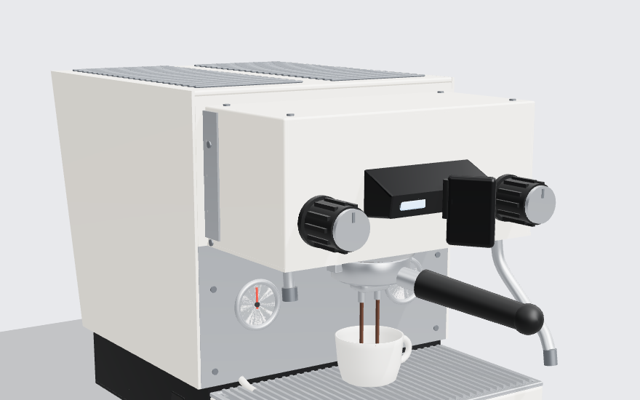
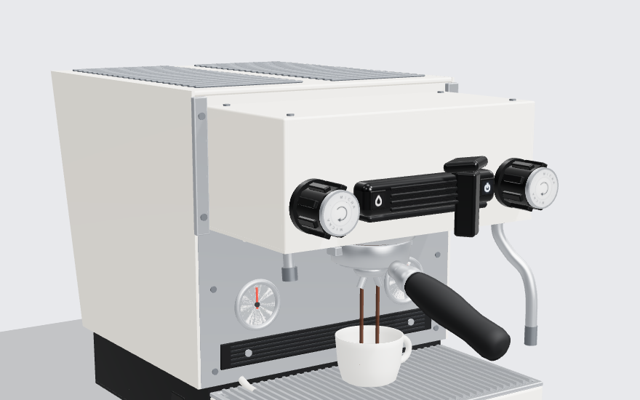
Linea Micra：按正面高清图重做拨杆、旋钮与手柄
- 油门式拨杆：横向黑色外壳 + 层叠鳍片，两端水滴（缺水）与电源（加热）图标窗，T 形握头
- 旋钮：八棱握圈 + MICRA 端盖，顺时针箭头
- 手柄：人体工学握把，金属颈带凸缘，可选黑色 / 胡桃木
- 机头高度、两侧前向连接片、压力表下方格栅带、蒸汽棒外弯直落按照片修正
- 更新截图与 README

Claude-Session: https://claude.ai/code/session_012V7wkPAnxipe7Hg38rGhwa

Changed region(s): [[0.2812, 0.24, 0.875, 0.93], [0.6875, 0.21, 0.7188, 0.24]]

diff --git a/sims/linea-micra.html b/sims/linea-micra.html
@@ -76,6 +76,8 @@ button:focus-visible{outline:2px solid var(--accent);outline-offset:1px}
 button.on{background:var(--ink);color:var(--card);border-color:var(--ink)}
 .sw{display:inline-flex;align-items:center;gap:6px;padding:4px 9px 4px 5px}
 .sw i{width:16px;height:16px;border:1px solid rgba(0,0,0,.25);display:inline-block;flex:none}
+.hsw{display:inline-flex;align-items:center;gap:6px;margin-left:6px}
+.lbl2{font-size:11px;color:var(--ink-2)}
 .sw.on{background:var(--card);color:var(--ink);border-color:var(--ink);box-shadow:inset 0 0 0 1px var(--ink)}
 .scrub{display:flex;align-items:center;gap:10px}
 .scrub input{flex:1;accent-color:var(--accent);min-width:0}
@@ -452,8 +454,8 @@ function anchor(p, pos, title, spec, subs) { anchors.push({p, pos: new THREE.Vec
    Axes: x to the right, y up, z toward the front. The main body's front face is z = 0; the head box sticks out in front of it.
    Overall 290 wide, 335 high, 395 deep at the base (drip tray front to the back foot), drip tray 270 wide. */
 const GZ = 60;        // group axis
-const KY_V = 238;     // height of the knobs and their valves
-const HB = {x: 133, y0: 200, y1: 322, z1: 126};   // head box
+const KY_V = 251;     // height of the knobs and their valves
+const HB = {x: 133, y0: 215, y1: 322, z1: 126};   // head box
 const BODY = {x: 145, y0: 70, y1: 335, zTop: -309, zBot: -254};
 
 /* ---------------------------------------------------------------- base plinth (black) with the feet, switch and plug; holds the tank */
@@ -554,6 +556,10 @@ const GAUGES = [{key: 'brew', x: -84, max: 18, major: 3, minor: 1, red: [8, 10]}
   // the body's front above the gauges, hidden behind the head box
   const upper = skin(boxMM(-142, 142, HB.y0, 322, -3, 0, MAT.paint), 'body');
   const objs = [plate, upper];
+  // the dark louvred band above the drip tray, with its two screws
+  objs.push(boxMM(-122, 122, 84, 108, -1, 1.2, std(0x1a1b1d, 0.3, 0.5), 2));
+  for (let y = 88; y <= 104; y += 4) objs.push(boxMM(-112, 112, y - 0.8, y + 0.8, 1.2, 2.2, std(0x2c2e31, 0.4, 0.4)));
+  for (const x of [-94, 94]) objs.push(cylZ(3.4, 1.2, 3.4, x, 96, MAT.steel, 16));
   for (const G of GAUGES) {
     const face = new THREE.Mesh(new THREE.CircleGeometry(GR, 48), new THREE.MeshStandardMaterial({map: makeGaugeTexture(G.max, G.major, G.minor, G.red), roughness: 0.4}));
     face.position.set(G.x, GY, 1);
@@ -572,20 +578,61 @@ const GAUGES = [{key: 'brew', x: -84, max: 18, major: 3, minor: 1, red: [8, 10]}
   anchor(pp, [84, 162, 4], '蒸汽压力表', '0–3 bar', ['steam']);
 }
 
-/* ---------------------------------------------------------------- head box: front panel C.1.660 and group cover C.1.661, knobs, the paddle module */
+/* ---------------------------------------------------------------- head box: front panel C.1.660 and group cover C.1.661, knobs, the paddle module (matched to the front product photo) */
 let paddle, paddleMeshes = [], stripeMeshes = [];
-const KNOBS = {};      // steam (right) and hot water (left): each turns about its own axis
-function knob(x, y, z0) {
-  const len = 46, r = 18, g = new THREE.Group();
-  g.add(cylZ(21, z0, z0 + 5, 0, 0, MAT.plastic, 32), cylZ(r, z0 + 5, z0 + len - 4, 0, 0, MAT.plastic, 32));
-  for (let i = 0; i < 12; i++) {                     // the fluted grip
-    const a = i / 12 * Math.PI * 2, cx = Math.cos(a) * (r + 0.6), cy = Math.sin(a) * (r + 0.6);
-    g.add(boxMM(cx - 1.7, cx + 1.7, cy - 1.7, cy + 1.7, z0 + 9, z0 + len - 9, MAT.plastic));
+const KNOBS = {};      // steam (right) and hot water (left): each turns clockwise about its own axis
+const ICONS = {};
+function capTexture() {
+  const c = document.createElement('canvas'); c.width = c.height = 256;
+  const g = c.getContext('2d');
+  const grd = g.createRadialGradient(110, 100, 10, 128, 128, 128);
+  grd.addColorStop(0, '#f7f7f5'); grd.addColorStop(1, '#c9ccd0');
+  g.fillStyle = grd; g.beginPath(); g.arc(128, 128, 128, 0, Math.PI * 2); g.fill();
+  g.translate(128, 128);
+  // the model name printed round the rim, twice
+  g.fillStyle = '#2a2d31'; g.font = '700 26px "Barlow Condensed", Arial, sans-serif'; g.textAlign = 'center'; g.textBaseline = 'middle';
+  const word = 'MICRA  ·  MICRA  ·  ';
+  for (let i = 0; i < word.length; i++) {
+    const a = -Math.PI / 2 + (i / word.length) * Math.PI * 2;
+    g.save(); g.rotate(a + Math.PI / 2); g.translate(0, -96); g.fillText(word[i], 0, 0); g.restore();
   }
-  g.add(cylZ(16.5, z0 + len - 4, z0 + len, 0, 0, MAT.steel, 32));                 // silver end cap
-  g.add(boxMM(-1.2, 1.2, 6, 14, z0 + len, z0 + len + 0.9, MAT.steelDark));       // the index mark shows how far it is open
+  g.strokeStyle = '#8a8f95'; g.lineWidth = 3; g.beginPath(); g.arc(0, 0, 76, 0, Math.PI * 2); g.stroke();
+  // a clockwise arrow in the middle: turn this way to open
+  g.strokeStyle = '#3a3e43'; g.lineWidth = 9; g.lineCap = 'round';
+  g.beginPath(); g.arc(0, 0, 40, -Math.PI * 0.75, Math.PI * 0.6); g.stroke();
+  const ax = Math.cos(Math.PI * 0.6) * 40, ay = Math.sin(Math.PI * 0.6) * 40;
+  g.fillStyle = '#3a3e43'; g.beginPath(); g.moveTo(ax - 18, ay - 4); g.lineTo(ax + 6, ay + 16); g.lineTo(ax + 10, ay - 14); g.closePath(); g.fill();
+  const t = new THREE.CanvasTexture(c); t.colorSpace = THREE.SRGBColorSpace; return t;
+}
+const CAP_TEX = capTexture();
+function knob(x, y, z0) {
+  const g = new THREE.Group();
+  const black = std(0x121314, 0.3, 0.28);
+  g.add(cylZ(22, z0, z0 + 6, 0, 0, black, 40));                              // collar on the panel
+  const body = cylZ(19.5, z0 + 6, z0 + 36, 0, 0, black, 8); g.add(body);   // eight-sided grip
+  for (let i = 0; i < 8; i++) {                                                 // raised facets with notches, as in the photo
+    const a = (i + 0.5) / 8 * Math.PI * 2, cx = Math.cos(a) * 19.8, cy = Math.sin(a) * 19.8;
+    const f = boxMM(-3.2, 3.2, -2, 2, z0 + 10, z0 + 33, black, 1);
+    f.position.set(cx, cy, f.position.z); f.rotation.z = a + Math.PI / 2; g.add(f);
+  }
+  g.add(cylZ(18, z0 + 36, z0 + 40, 0, 0, MAT.steel, 40));                     // bevelled metal rim
+  const face = new THREE.Mesh(new THREE.CircleGeometry(16.5, 48), new THREE.MeshStandardMaterial({map: CAP_TEX, roughness: 0.35, metalness: 0.2}));
+  face.position.set(0, 0, z0 + 40.2); g.add(face);
   g.position.set(x, y, 0);
   return g;
+}
+function iconTexture(kind) {
+  const c = document.createElement('canvas'); c.width = c.height = 128;
+  const g = c.getContext('2d');
+  g.fillStyle = '#0d0e10'; g.fillRect(0, 0, 128, 128);
+  g.strokeStyle = g.fillStyle = '#e8eaec'; g.lineWidth = 9; g.lineCap = 'round';
+  if (kind === 'drop') {
+    g.beginPath(); g.moveTo(64, 26); g.bezierCurveTo(80, 50, 92, 64, 92, 78); g.arc(64, 78, 28, 0, Math.PI); g.bezierCurveTo(36, 64, 48, 50, 64, 26); g.stroke();
+  } else {
+    g.beginPath(); g.arc(64, 70, 28, -Math.PI * 0.32, Math.PI * 1.32); g.stroke();
+    g.beginPath(); g.moveTo(64, 28); g.lineTo(64, 66); g.stroke();
+  }
+  const t = new THREE.CanvasTexture(c); t.colorSpace = THREE.SRGBColorSpace; return t;
 }
 {
   const front = skin(boxMM(-HB.x, HB.x, HB.y0, HB.y1, HB.z1 - 6, HB.z1, MAT.paint, 2), 'body');
@@ -595,10 +642,10 @@ function knob(x, y, z0) {
   const hole = new THREE.Path(); hole.absarc(0, GZ, 48, 0, Math.PI * 2, true); bs.holes.push(hole);
   const bottom = skin(new THREE.Mesh(new THREE.ExtrudeGeometry(bs, {depth: 3, bevelEnabled: false, curveSegments: 32}), MAT.paint), 'body');
   bottom.rotation.x = Math.PI / 2; bottom.position.y = HB.y0 + 3;
-  // stainless brackets tying the head box to the body, and the screws on top (photo 3)
-  const brackets = [-1, 1].map(s => boxMM(s > 0 ? HB.x : -HB.x - 2, s > 0 ? HB.x + 2 : -HB.x, HB.y0 + 8, HB.y1 - 4, 0, 24, MAT.steel));
+  // front-facing stainless flanges either side of the head, two screws each (front photo)
+  const brackets = [-1, 1].map(s => boxMM(s > 0 ? HB.x : -146, s > 0 ? 146 : -HB.x, HB.y0 - 4, 330, 0, 6, MAT.steel, 1));
   const bScrews = [];
-  for (const s of [-1, 1]) for (const y of [205, 290]) bScrews.push(cylX(3, s > 0 ? HB.x + 2 : -HB.x - 3.5, s > 0 ? HB.x + 3.5 : -HB.x - 2, y, 12, MAT.steelDark, 16));
+  for (const s of [-1, 1]) for (const y of [HB.y0 + 12, 314]) bScrews.push(cylZ(3.2, 6, 7.6, s * 139.5, y, MAT.steelDark, 16));
   const tScrews = [];
   for (const x of [-118, 118]) for (const z of [12, 112]) tScrews.push(cylY(3, HB.y1, HB.y1 + 1.4, x, z, MAT.steelDark, 16));
   for (const [y0, y1, col] of [[300, 310, 0x1e3c78], [292, 300, 0xc4271f], [287, 292, 0x4d7fc0]]) {
@@ -606,37 +653,53 @@ function knob(x, y, z0) {
     stripeMeshes.push(boxMM(-HB.x + 2, HB.x - 2, y0, y1, HB.z1, HB.z1 + 1.2, mat),
       boxMM(-HB.x - 1.2, -HB.x, y0, y1, 26, HB.z1 - 2, mat), boxMM(HB.x, HB.x + 1.2, y0, y1, 26, HB.z1 - 2, mat));
   }
-  // steam (right) and hot water (left) valves B.2.040 with fluted knobs F.1.231
+  // steam (right) and hot water (left) valves B.2.040 with knobs F.1.231
   const KY = KY_V, knobs = [], valves = [];
   for (const sx of [-1, 1]) {
-    const k = knob(sx * 100, KY, HB.z1); knobs.push(k);
+    const k = knob(sx * 107, KY, HB.z1); knobs.push(k);
     KNOBS[sx > 0 ? 'steam' : 'hot'] = {g: k, meshes: k.children};
-    valves.push(cylZ(13, 72, HB.z1 - 6, sx * 100, KY, MAT.brass, 20), boxMM(sx * 100 - 11, sx * 100 + 11, KY - 11, KY + 11, 60, 72, MAT.brass, 2));
+    valves.push(cylZ(13, 72, HB.z1 - 6, sx * 107, KY, MAT.brass, 20), boxMM(sx * 107 - 11, sx * 107 + 11, KY - 11, KY + 11, 60, 72, MAT.brass, 2));
   }
-  // paddle module: a black wedge (front frame C.2.067) with the heating light at its left and the tank light at its right end
-  const PY = 252, ps = new THREE.Shape([[HB.z1, PY - 14], [HB.z1 + 32, PY - 10], [HB.z1 + 35, PY + 6], [HB.z1, PY + 22]].map(([z, y]) => new THREE.Vector2(z, y)));
-  const wedge = new THREE.Mesh(new THREE.ExtrudeGeometry(ps, {depth: 108, bevelEnabled: true, bevelThickness: 2, bevelSize: 2, bevelSegments: 2}), std(0x111214, 0.25, 0.22));
-  wedge.rotation.y = -Math.PI / 2; wedge.position.x = 54;
-  const glassHeat = boxMM(-46, -20, PY - 6, PY + 2, HB.z1 + 33, HB.z1 + 36.5, MAT.led, 2);
-  const glassTank = boxMM(50, 56, PY - 4, PY + 6, HB.z1 + 14, HB.z1 + 28, MAT.ledRed, 2);
-  // paddle handle C.2.068 on lever C.1.666: a vertical blade standing in front of the wedge, pivoting about a vertical axis
+  // paddle module (front frame C.2.067): a wide black housing between the knobs, stepped louvres on its face,
+  // a water-drop window at the left end and a power window at the right end
+  const PY = 254, Z0 = HB.z1, gloss = std(0x0f1012, 0.35, 0.18);
+  const housing = boxMM(-70, 70, PY - 14, PY + 14, Z0, Z0 + 22, gloss, 7);
+  const lip = boxMM(-64, 64, PY - 19, PY - 13, Z0, Z0 + 18, std(0x18191b, 0.3, 0.3), 3);
+  const louvres = [];
+  for (let i = 0; i < 4; i++) {
+    const y = PY - 9 + i * 5.6, out = 2.6 - i * 0.5;           // each slat steps back a little, like the photo
+    louvres.push(boxMM(-46, 44, y - 1.6, y + 1.6, Z0 + 21, Z0 + 22 + out, gloss, 1.2));
+  }
+  const tile = (x, kind, emis) => {
+    const t = iconTexture(kind);
+    const m = new THREE.Mesh(new THREE.PlaneGeometry(12, 12), new THREE.MeshStandardMaterial({map: t, emissiveMap: t, emissive: emis, emissiveIntensity: 0.2, roughness: 0.3}));
+    m.position.set(x, PY, Z0 + 22.6); return m;
+  };
+  const frames = [-58, 58].map(x => boxMM(x - 8, x + 8, PY - 8, PY + 8, Z0 + 20, Z0 + 22.4, std(0x050506, 0.2, 0.2), 2));
+  ICONS.drop = tile(-58, 'drop', 0xff4a35);      // tank empty
+  ICONS.power = tile(58, 'power', 0x9cc8ff);     // on / heating
+  // the paddle (lever C.1.666 + handle C.2.068): a throttle-style lever standing in a slot right of centre,
+  // a flat stem that runs below the housing, a T-grip on top; it rests straight and swings right to brew
   paddle = new THREE.Group();
-  const blade = boxMM(-4.5, 4.5, -38, 20, 0, 40, std(0x111214, 0.25, 0.3), 4);
-  const hub = cylY(4, -16, 16, 0, 0, MAT.plastic, 16);
-  paddle.add(blade, hub); paddle.position.set(0, PY, HB.z1 + 39);
-  paddleMeshes = [blade, hub, wedge];
-  const switchBox = boxMM(-6, 20, PY - 4, PY + 12, 108, 118, MAT.plastic, 2);   // microswitch E.2.111 behind the paddle
+  const stem = boxMM(-9, 9, PY - 39 - PY, 16, 10, 28, gloss, 3);
+  const neck = boxMM(-6, 6, 12, 18, 6, 26, gloss, 2);
+  const grip = boxMM(-19, 19, 17, 26, 2, 32, gloss, 4);
+  grip.rotation.x = -0.12;
+  paddle.add(stem, neck, grip); paddle.position.set(24, PY, Z0 + 8);
+  paddleMeshes = [stem, neck, grip, housing];
+  const switchBox = boxMM(14, 34, PY - 4, PY + 12, 108, 118, MAT.plastic, 2);   // microswitch E.2.111 behind the lever
   // barista lights E.1.034 under the head box
   const bLights = [-1, 1].map(s => boxMM(s * 58 - 16, s * 58 + 16, HB.y0 - 1.5, HB.y0, 96, 110, MAT.led, 1));
   [...knobs.flatMap(k => k.children), ...valves].forEach(m => m.userData.solid = 'wand');
-  [wedge, glassHeat, glassTank, blade, hub, switchBox].forEach(m => m.userData.solid = 'paddle');
-  const pt = unit('top', [front, ...sides, top, bottom, ...brackets, ...bScrews, ...tScrews, ...stripeMeshes, ...knobs, ...valves, wedge, glassHeat, glassTank, paddle, switchBox, ...bLights],
+  [housing, lip, ...louvres, ...frames, ICONS.drop, ICONS.power, stem, neck, grip, switchBox].forEach(m => m.userData.solid = 'paddle');
+  const pt = unit('top', [front, ...sides, top, bottom, ...brackets, ...bScrews, ...tScrews, ...stripeMeshes, ...knobs, ...valves,
+    housing, lip, ...louvres, ...frames, ICONS.drop, ICONS.power, paddle, switchBox, ...bLights],
     {path: [[0, 430, 0]], delay: 0.2, rel: ['shell', 'paddle']});
-  anchor(pt, [0, PY + 20, HB.z1 + 60], '冲煮拨杆', '竖直拨片 · 待机回正，向右扳开始萃取', ['paddle', 'group']);
-  anchor(pt, [-33, PY - 2, HB.z1 + 36], '加热指示', '蓝灯 · 锅炉加热中', ['paddle']);
-  anchor(pt, [53, PY + 1, HB.z1 + 21], '缺水指示', '红灯 · 水箱需加水', ['paddle']);
-  anchor(pt, [100, KY + 18, HB.z1 + 46], '蒸汽旋钮', '右侧 · 控制蒸汽棒', ['wand']);
-  anchor(pt, [-100, KY + 18, HB.z1 + 46], '热水旋钮', '左侧 · 控制热水嘴', ['wand']);
+  anchor(pt, [24, PY + 26, Z0 + 40], '冲煮拨杆', '油门式拨杆 · 待机回正，向右扳开始萃取', ['paddle', 'group']);
+  anchor(pt, [-58, PY + 8, Z0 + 23], '缺水指示', '水滴图标 · 水箱需加水时亮', ['paddle']);
+  anchor(pt, [58, PY + 8, Z0 + 23], '电源 / 加热', '电源图标 · 锅炉加热时亮', ['paddle']);
+  anchor(pt, [107, KY + 20, HB.z1 + 41], '蒸汽旋钮', '右侧 · 顺时针拧开', ['wand']);
+  anchor(pt, [-107, KY + 20, HB.z1 + 41], '热水旋钮', '左侧 · 顺时针拧开', ['wand']);
   anchor(pt, [-HB.x, HB.y1, 60], '机头', '前面板 + 冲煮头罩 · 随皮肤换色', ['shell']);
 }
 
@@ -672,51 +735,79 @@ let steamWater, element, steamShell, coilCurve;
 /* ---------------------------------------------------------------- coffee group: machined boiler L.1.015 (0.23 L, 500 W) straight on the group, 3-way valve */
 let groupShell, cartridge;
 {
-  const bay = lathe([[0, 186], [26, 186], [26, 188.5], [40, 188.5], [42, 197], [44, 200], [0, 200]], MAT.steel, 0, GZ);   // bayonet ring A.3.011
-  const screen = cylY(26, 185.6, 186.4, 0, GZ, MAT.steelDark, 40);
-  const lugs = [-1, 1].map(s => boxMM(s * 42 - 5, s * 42 + 5, 189, 196, GZ - 7, GZ + 7, MAT.steel, 1));
-  groupShell = cylY(45, 200, 300, 0, GZ, MAT.steel, 48);
+  const bay = lathe([[0, 201], [26, 201], [26, 203.5], [40, 203.5], [42, 212], [44, 215], [0, 215]], MAT.steel, 0, GZ);   // bayonet ring A.3.011
+  const screen = cylY(26, 200.6, 201.4, 0, GZ, MAT.steelDark, 40);
+  const lugs = [-1, 1].map(s => boxMM(s * 42 - 5, s * 42 + 5, 204, 211, GZ - 7, GZ + 7, MAT.steel, 1));
+  groupShell = cylY(45, 215, 300, 0, GZ, MAT.steel, 48);
   const cap = cylY(28, 300, 306, 0, GZ, MAT.steelDark, 32);            // coffee boiler cap A.5.176
-  cartridge = cylY(6, 208, 296, 18, GZ, MAT.element.clone(), 16); cartridge.userData.inner = true;   // 500 W element E.6.047
+  cartridge = cylY(6, 223, 296, 18, GZ, MAT.element.clone(), 16); cartridge.userData.inner = true;   // 500 W element E.6.047
   const ntc = cylBetween([30, 284, GZ - 30], [40, 292, GZ - 40], 3, MAT.steelDark, 12);
   const sol = [boxMM(-78, -50, 225, 253, GZ - 14, GZ + 14, MAT.brass, 3), cylY(12, 253, 281, -64, GZ, MAT.plastic, 24)];   // 3-way solenoid B.4.007
   groupShell.userData.heat = 'coffee'; cap.userData.heat = 'coffee'; cartridge.userData.heat = 'element';
   const p = unit('group', [bay, screen, ...lugs, groupShell, cap, cartridge, ntc, ...sol], {path: [[0, 0, 300]], delay: 0.5, glass: [groupShell], rel: ['group', 'paddle']});
   anchor(p, [45, 270, GZ], '咖啡锅炉', '0.23 L · 500 W · 直接压在冲煮头上', ['group', 'all']);
-  anchor(p, [0, 188, GZ + 42], '冲煮头', '卡口环 + 分水网', ['group']);
+  anchor(p, [0, 203, GZ + 42], '冲煮头', '卡口环 + 分水网', ['group']);
   anchor(p, [-64, 281, GZ], '三通电磁阀', '关阀时把余压排进接水盘', ['group', 'paddle']);
 }
 
-/* ---------------------------------------------------------------- portafilter A.7.027: handle points forward and a little right, as in photos 3 and 4 */
+/* ---------------------------------------------------------------- portafilter A.7.027: basket ring with two ears, a chrome neck with a flared collar,
+   and a contoured grip that swells in the middle, pinches and ends in a slight bulb (the reference handle photo) */
+function woodTexture() {
+  const c = document.createElement('canvas'); c.width = 256; c.height = 512;
+  const g = c.getContext('2d');
+  g.fillStyle = '#7a4a2b'; g.fillRect(0, 0, 256, 512);
+  let s = 11; const rnd = () => (s = (s * 16807) % 2147483647) / 2147483647;
+  for (let i = 0; i < 180; i++) {                     // fine grain running along the handle
+    const x0 = rnd() * 256, w = 0.4 + rnd() * 1.2, dark = rnd() < 0.65;
+    g.strokeStyle = dark ? `rgba(62,34,18,${0.12 + rnd() * 0.25})` : `rgba(176,120,76,${0.1 + rnd() * 0.2})`;
+    g.lineWidth = w; g.beginPath(); g.moveTo(x0, 0);
+    for (let y = 0; y <= 512; y += 16) g.lineTo(x0 + Math.sin(y / 120 + i * 0.3) * 4, y);
+    g.stroke();
+  }
+  const t = new THREE.CanvasTexture(c); t.colorSpace = THREE.SRGBColorSpace; t.wrapS = t.wrapT = THREE.RepeatWrapping; return t;
+}
+const HANDLES = {
+  black: {name: '黑色', mat: {color: 0x17181a, map: null, roughness: 0.72, metalness: 0}},
+  wood: {name: '胡桃木', mat: {color: 0xffffff, map: woodTexture(), roughness: 0.5, metalness: 0}},
+};
+let handleMesh;
 {
-  const ring = lathe([[0, 164], [29, 164], [35, 167], [37, 186], [29.5, 186], [28.5, 172], [0, 172]], MAT.steel, 0, GZ);
-  const puck = cylY(28, 181, 184.5, 0, GZ, std(0x2b1a10, 0, .9), 40);
-  const ears = [-1, 1].map(s => boxMM(s * 39 - 4, s * 39 + 4, 176, 184, GZ - 7, GZ + 7, MAT.steel, 1));
-  const spout = boxMM(-16, 16, 154, 165, GZ - 12, GZ + 12, MAT.steel, 5);
-  const noz = [-9, 9].map(x => cylY(3.4, 144, 155, x, GZ, MAT.steel, 14));
-  const dir = new THREE.Vector3(0.28, -0.13, 0.95).normalize();
-  const A = new THREE.Vector3(0, 176, GZ).addScaledVector(dir, 36), B = A.clone().addScaledVector(dir, 22), C = A.clone().addScaledVector(dir, 128);
-  const neck = cylBetween(A.toArray(), B.toArray(), 9, MAT.steel);
-  const handle = cylBetween(B.toArray(), C.toArray(), 13, MAT.plastic, 24, 11);
-  const end = new THREE.Mesh(new THREE.SphereGeometry(13, 20, 12), MAT.plastic); end.position.copy(C);
-  const p = unit('pf', [ring, puck, ...ears, spout, ...noz, neck, handle, end], {path: [[0, 0, 400]], delay: 0});
-  anchor(p, C.toArray(), '手柄', '58 mm · 双出液嘴，可换无底', ['pf', 'all']);
+  const ring = lathe([[0, 179], [29, 179], [35, 182], [37, 201], [29.5, 201], [28.5, 187], [0, 187]], MAT.steel, 0, GZ);
+  const puck = cylY(28, 196, 199.5, 0, GZ, std(0x2b1a10, 0, .9), 40);
+  const ears = [-1, 1].map(s => boxMM(s * 39 - 4, s * 39 + 4, 191, 199, GZ - 7, GZ + 7, MAT.steel, 1));
+  // double spout: a rounded body under the basket and two nozzles that splay apart
+  const spoutBody = lathe([[0, 168], [12, 168], [15, 172], [15, 180], [0, 180]], MAT.steel, 0, GZ, 32);
+  const noz = [-1, 1].map(s => cylBetween([s * 5, 170, GZ], [s * 11, 157, GZ], 3.4, MAT.steel, 14));
+  const dir = new THREE.Vector3(0.04, -0.3, 0.95).normalize();
+  const orient = (m, at) => { m.quaternion.setFromUnitVectors(UP, dir); m.position.copy(at); return m; };
+  const A = new THREE.Vector3(0, 191, GZ).addScaledVector(dir, 36);
+  // chrome neck with the flared collar
+  const neck = orient(new THREE.Mesh(new THREE.LatheGeometry([[0, 0], [8, 0], [8, 8], [9.5, 12], [12, 20], [12, 25], [10.5, 27], [0, 27]].map(([r, y]) => new THREE.Vector2(r, y)), 40), MAT.steel), A);
+  const B = A.clone().addScaledVector(dir, 27);
+  // contoured grip: radius along its 112 mm length
+  const prof = [[0, 0], [10.5, 0], [12, 4], [14, 18], [15.2, 34], [15, 48], [13.6, 64], [12.8, 78], [13.6, 92], [14.2, 102], [12.8, 109], [8, 112.5], [0, 113.5]];
+  handleMesh = orient(new THREE.Mesh(new THREE.LatheGeometry(prof.map(([r, y]) => new THREE.Vector2(r, y)), 48), std(0x17181a, 0, 0.72)), B);
+  handleMesh.userData.skin = 'handle';
+  const C = B.clone().addScaledVector(dir, 113);
+  const p = unit('pf', [ring, puck, ...ears, spoutBody, ...noz, neck, handleMesh], {path: [[0, 0, 400]], delay: 0});
+  anchor(p, C.toArray(), '手柄', '58 mm · 人体工学握把 · 可换木柄', ['pf', 'all']);
 }
 
-/* ---------------------------------------------------------------- steam wand T.2.139: swan neck under the right of the head; hot water wand A.5.171 on the left */
+/* ---------------------------------------------------------------- steam wand T.2.139: drops from the head, swings out to the right, then falls straight to the tray edge;
+   hot water wand A.5.171 is the short spout on the left */
 let steamTip;
 {
-  const wand = tube([[118, HB.y0, 96], [120, 172, 100], [126, 140, 126], [125, 116, 156], [122, 102, 167]], 5.5, MAT.steel);
+  const wand = tube([[118, HB.y0, 96], [119, 198, 98], [127, 180, 106], [136, 164, 118], [138, 146, 124], [138, 112, 126]], 5.5, MAT.steel);
   const joint = cylY(8, HB.y0 - 6, HB.y0, 118, 96, MAT.steel, 20);
-  const tip = cylBetween([122, 104, 167], [122, 90, 169], 6, MAT.steelDark, 16);
-  steamTip = new THREE.Vector3(122, 90, 169);
+  const tip = cylBetween([138, 114, 126], [138, 96, 126], 5.8, MAT.steelDark, 16);
+  steamTip = new THREE.Vector3(138, 96, 126);
   const pw = unit('wand', [wand, joint, tip], {path: [[0, 0, 220], [200, 0, 0]], delay: 0.25});
   pw.isSteam = true;
-  anchor(pw, [126, 140, 126], '蒸汽棒', '天鹅颈 · 蒸汽嘴 Ø1.1 mm', ['wand', 'all']);
-  const spout = tube([[-112, HB.y0, 98], [-112, 186, 99], [-112, 178, 100]], 4.6, MAT.steel);
-  const diff = cylBetween([-112, 180, 100], [-112, 169, 101], 6.5, MAT.steelDark, 16);
+  anchor(pw, [138, 140, 124], '蒸汽棒', '外弯后直落 · 蒸汽嘴 Ø1.1 mm', ['wand', 'all']);
+  const spout = tube([[-112, HB.y0, 98], [-112, 203, 99], [-112, 195, 100]], 4.6, MAT.steel);
+  const diff = cylBetween([-112, 197, 100], [-112, 186, 101], 6.5, MAT.steelDark, 16);
   const ph = unit('wand', [spout, diff], {path: [[0, 0, 220], [-200, 0, 0]], delay: 0.25});
-  anchor(ph, [-112, 169, 101], '热水嘴', '取自蒸汽锅炉 · Ø2 mm 节流', ['wand']);
+  anchor(ph, [-112, 186, 101], '热水嘴', '取自蒸汽锅炉 · Ø2 mm 节流', ['wand']);
 }
 
 /* ---------------------------------------------------------------- rotary vane pump E.3.031 (85 L/h) on a 100 W motor; the motor's axis runs left to right */
@@ -810,7 +901,7 @@ function applySkin(id) {
   const k = SKINS.find(s => s.id === id) || SKINS[0];
   skinId = k.id;
   for (const m of meshes) {
-    const kind = m.userData.skin; if (!kind) continue;
+    const kind = m.userData.skin; if (!kind || kind === 'handle') continue;
     const [c, mt, r] = kind === 'tray' ? k.tray : k.body;
     m.userData.sm.color.setHex(c); m.userData.sm.metalness = mt; m.userData.sm.roughness = r;
   }
@@ -821,6 +912,18 @@ function applySkin(id) {
   try { localStorage.setItem('micra-skin', k.id); } catch (e) {}
 }
 applySkin(skinId);
+const handleBox = document.createElement('span'); handleBox.className = 'hsw';
+handleBox.innerHTML = '<span class="lbl2">手柄</span>' + Object.entries(HANDLES).map(([id, H]) => `<button type="button" class="sw" data-handle="${id}"><i style="background:${id === 'wood' ? 'linear-gradient(90deg,#6b3f22,#9a6238,#6b3f22)' : '#17181a'}"></i>${H.name}</button>`).join('');
+skinBox.appendChild(handleBox);
+function applyHandle(id) {
+  const H = HANDLES[id] ? HANDLES[id] : HANDLES.black, sm = handleMesh.userData.sm;
+  sm.color.setHex(H.mat.color); sm.map = H.mat.map; sm.roughness = H.mat.roughness; sm.needsUpdate = true;
+  document.querySelectorAll('[data-handle]').forEach(b => b.classList.toggle('on', HANDLES[b.dataset.handle] === H));
+  try { localStorage.setItem('micra-handle', id); } catch (e) {}
+}
+let handleId = 'black';
+try { const h = localStorage.getItem('micra-handle'); if (HANDLES[h]) handleId = h; } catch (e) {}
+applyHandle(handleId);
 
 /* ================================================================ x-ray look (the La Marzocco cutaway): glass bodies, dark outlines, heat in red */
 const BG_SOLID = new THREE.Color(0xe8e9ec), BG_XRAY = new THREE.Color(0xf6f6f4);
@@ -942,6 +1045,7 @@ document.querySelectorAll('[data-sub]').forEach(b => b.addEventListener('click',
   takeOver(clock); setIso(b.dataset.sub); const v = SUBVIEW[b.dataset.sub]; if (v && S.Etgt === 0) goView(v, clock);
 }));
 document.querySelectorAll('[data-skin]').forEach(b => b.addEventListener('click', () => { takeOver(clock); applySkin(b.dataset.skin); }));
+document.querySelectorAll('[data-handle]').forEach(b => b.addEventListener('click', () => { takeOver(clock); applyHandle(b.dataset.handle); }));
 document.querySelectorAll('[data-view]').forEach(b => b.addEventListener('click', () => { takeOver(clock); goView(b.dataset.view, clock); }));
 document.getElementById('btn-xray').addEventListener('click', () => { takeOver(clock); setXray(!S.xray); if (S.Etgt === 0) goView(S.xray ? 'xside' : 'hero', clock); });
 document.getElementById('btn-explode').addEventListener('click', () => { takeOver(clock); setExplode(S.Etgt === 0); goView(S.Etgt ? 'exploded' : 'hero', clock); });
@@ -1192,11 +1296,13 @@ function frame(nowMs) {
   paddle.rotation.y = ease(m.paddle) * 0.6;   // rests centred, swings right to brew
   paddle.children.forEach(c => { if (c.userData.xm) c.userData.xm.color.setHex(m.paddle > 0.5 ? 0xd2381c : 0x2f343a); });
   fan.rotation.x = m.rotor;
+  ICONS.power.userData.sm.emissiveIntensity = (m.steamHeat || m.coffeeHeat) ? 1.3 : 0.35;
+  ICONS.drop.userData.sm.emissiveIntensity = m.tank < 300 ? 1.3 : 0.12;
   KNOBS.steam.g.rotation.z = -ease(m.steamK) * Math.PI / 2;   // clockwise seen from the front
   KNOBS.hot.g.rotation.z = -ease(m.hotK) * Math.PI / 2;
   {
     const P_HOT = parts.find(p => p.sub === 'wand' && !p.isSteam);
-    const top = 169 + P_HOT.obj.position.y, bot = 69 + P_WATER.obj.position.y, len = top - bot;
+    const top = 186 + P_HOT.obj.position.y, bot = 69 + P_WATER.obj.position.y, len = top - bot;
     hotStream.visible = m.hotK > 0.05 && S.E < 0.02 && ['all', 'wand', 'water'].includes(S.iso) && len > 1;
     const r = 1.6 * m.hotK + 0.4;
     hotStream.scale.set(r, len, r); hotStream.position.set(-112, bot + len / 2, 101 + P_HOT.obj.position.z);
@@ -1211,7 +1317,7 @@ function frame(nowMs) {
   cupLiquid.visible = crema.visible = m.yield > 0.2 && cupLiquid.userData.op > 0.01;
   cupLiquid.scale.y = Math.max(0.01, h); cupLiquid.position.y = 74 + h / 2; crema.position.y = 74 + h + 0.3;
   for (const s of streams) {
-    const top = 144 + P_PF.obj.position.y, bot = 74 + h + P_WATER.obj.position.y, len = top - bot;
+    const top = 157 + P_PF.obj.position.y, bot = 74 + h + P_WATER.obj.position.y, len = top - bot;
     s.visible = m.yRate > 0.03 && S.E < 0.02 && ['all', 'pf', 'group', 'water', 'paddle'].includes(S.iso) && len > 1;
     const r = 0.7 + Math.sqrt(m.yRate) * 0.85;
     s.scale.set(r, len, r); s.position.y = bot + len / 2;
@@ -1285,7 +1391,7 @@ function frame(nowMs) {
   requestAnimationFrame(frame);
 }
 requestAnimationFrame(frame);
-window.__sim = {toggleValve: (k) => toggleValve(k), goView2: (pos, tgt) => { VIEWS.__t = {pos, tgt}; goView('__t', performance.now() / 1000); }, model, S, setIso, setXray, setExplode, goView, applySkin, setPI, togglePaddle, get mtime() { return mtime; }, set mtime(v) { mtime = v; }, takeOver: () => takeOver(clock), parts};
+window.__sim = {applyHandle, toggleValve: (k) => toggleValve(k), goView2: (pos, tgt) => { VIEWS.__t = {pos, tgt}; goView('__t', performance.now() / 1000); }, model, S, setIso, setXray, setExplode, goView, applySkin, setPI, togglePaddle, get mtime() { return mtime; }, set mtime(v) { mtime = v; }, takeOver: () => takeOver(clock), parts};
 </script>
 
 </body>

diff --git a/README.md b/README.md
@@ -19,22 +19,24 @@
 |---|---|
 | 实时运转 | 萃取 → 关阀泄压 → 蒸汽 → 自动补水，44 秒一个循环 |
 | 仪表同步 | 压力表、温度、出液量、萃取曲线和三维模型读同一套数据，不会对不上 |
-| 拨杆萃取 | 点模型上的拨杆或右侧按钮开始/停止萃取，待机回正，向右扳开始 |
+| 拨杆萃取 | 油门式拨杆，点模型上的拨杆或右侧按钮开始/停止萃取，待机回正，向右扳开始；两端水滴（缺水）和电源（加热）图标会亮 |
 | 预浸 | 关 / 2 秒 / 4 秒，压力曲线先停在约 2.5 bar 再升到 9 bar |
-| 热水 / 蒸汽旋钮 | 顺时针拧开，热水嘴出水、蒸汽棒喷汽，蒸汽压力表随之回落 |
+| 热水 / 蒸汽旋钮 | 八棱握圈 + MICRA 端盖，顺时针拧开，热水嘴出水、蒸汽棒喷汽，蒸汽压力表随之回落 |
 | X 光透视 | 半透明玻璃加轮廓线，锅炉加热时显示红色，水路有流动红点 |
 | 拆解 | 按真实拆装顺序分离零件，路径经过检查不穿模 |
 | 部件 | 单独查看冲煮头、蒸汽锅炉、拨杆、水泵、蒸汽热水、水箱接水、电控、手柄 |
-| 换外观 | Linea Micra 有 8 款：不锈钢、曜黑、奶油白、经典红、柠檬黄、天空蓝、岩灰、赛道条纹 |
+| 换外观 | Linea Micra 有 8 款：不锈钢、曜黑、奶油白、经典红、柠檬黄、天空蓝、岩灰、赛道条纹；手柄可选黑色或胡桃木 |
 | 自动巡览 | 不操作时自己演示，点任意处接管，25 秒无操作后继续 |
 
 ![Linea Micra X 光透视](docs/screenshots/linea-micra-xray.png)
 
 ![Linea Micra 拆解](docs/screenshots/linea-micra-exploded.png)
 
-| 热水与蒸汽旋钮 | 赛道条纹外观 |
+| 拨杆与旋钮 | 胡桃木手柄 |
 |---|---|
-| ![旋钮](docs/screenshots/linea-micra-controls.png) | ![赛道条纹](docs/screenshots/linea-micra-race.png) |
+| ![拨杆与旋钮](docs/screenshots/linea-micra-controls.png) | ![胡桃木手柄](docs/screenshots/linea-micra-handle.png) |
+
+![赛道条纹](docs/screenshots/linea-micra-race.png)
 
 | Linea Mini R | Linea Mini R 拆解 |
 |---|---|
